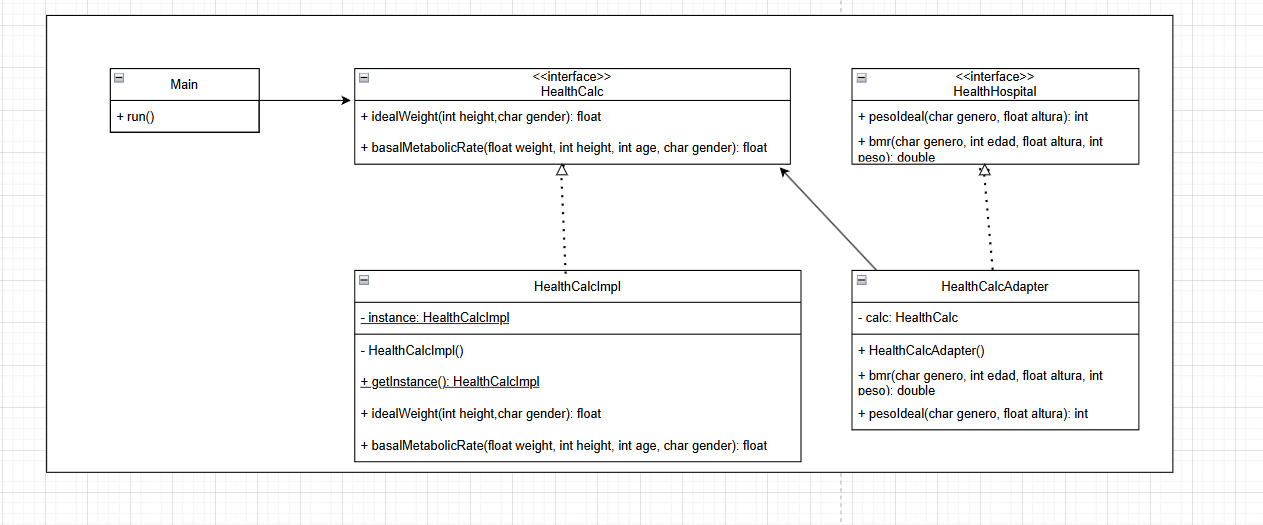
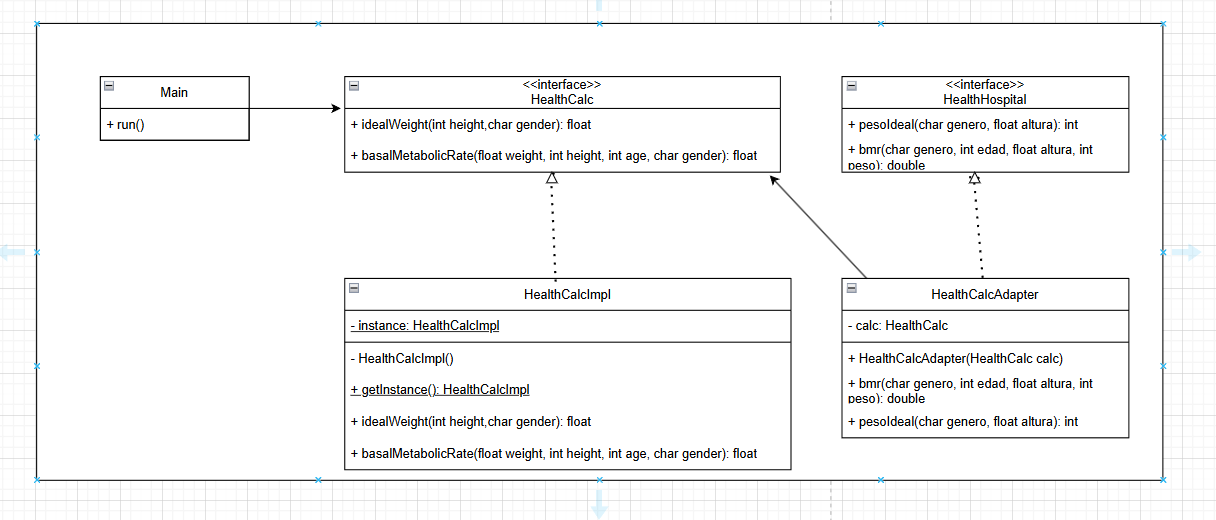
fix: commit to fix UML_adapter and implementation of adapter design pattern

diff --git a/projectHealthcalc/src/main/java/healthcalc/HealthCalcAdapter.java b/projectHealthcalc/src/main/java/healthcalc/HealthCalcAdapter.java
@@ -4,8 +4,8 @@ public class HealthCalcAdapter implements HealthHospital {
 
     private final HealthCalc calc;
 
-    public HealthCalcAdapter() {
-        this.calc = HealthCalcImpl.getInstance(); 
+    public HealthCalcAdapter(HealthCalc calc) {
+        this.calc = calc;
     }
 
     @Override

diff --git a/projectHealthcalc/src/main/java/healthcalc/MainCalc.java b/projectHealthcalc/src/main/java/healthcalc/MainCalc.java
@@ -8,6 +8,10 @@ public class MainCalc {
 
 public static void main(String[] args) {
 	HealthCalc model = HealthCalcImpl.getInstance();
+
+    
+    HealthHospital hospitalCalc = new HealthCalcAdapter(model);
+
 	}
 }
 
